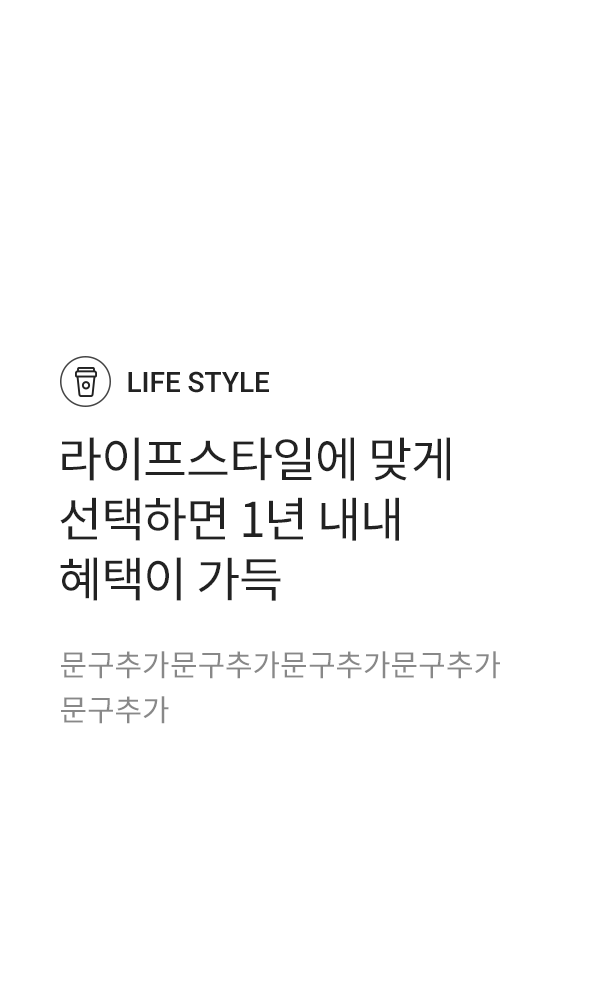
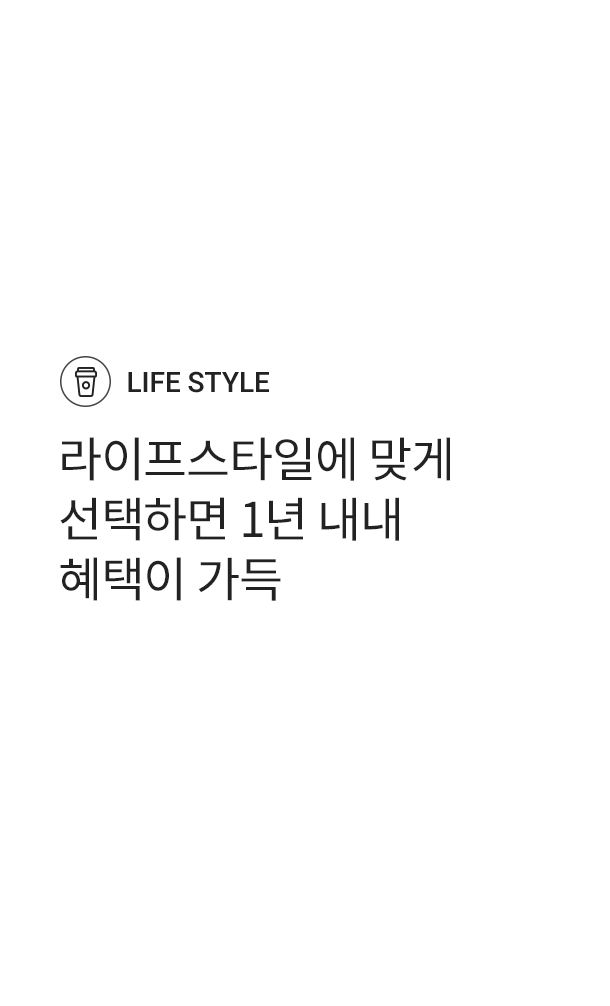
type-a 디자인 및 모션 수정

Changed region(s): [[0.0934, 0.6471, 0.841, 0.7396]]

diff --git a/type_a/assets/css/main.css b/type_a/assets/css/main.css
@@ -1160,16 +1160,7 @@ body, html {
             margin-top: -185px;
             opacity: 0;
             filter: alpha(opacity=0);
-            transform: scale(2); }
-            .card-holder .card-box .card-clip .card-pod .card-float img.onShow {
-              opacity: 1;
-              filter: alpha(opacity=100);
-              transform: scale(1);
-              -webkit-transition: -webkit-transform 0.5s ease-in 0s, opacity 0.5s ease-in 0s;
-              -moz-transition: -moz-transform 0.5s ease-in 0s, opacity 0.5s ease-in 0s;
-              -ms-transition: -ms-transform 0.5s ease-in 0s, opacity 0.5s ease-in 0s;
-              -o-transition: -o-transform 0.5s ease-in 0s, opacity 0.5s ease-in 0s;
-              transition: transform 0.5s ease-in 0s, opacity 0.5s ease-in 0s; }
+            transform: scale(1.5); }
         .card-holder .card-box .card-clip .card-pod .card-scale {
           opacity: 0;
           filter: alpha(opacity=0);
@@ -1253,7 +1244,7 @@ body, html {
               width: 213px;
               height: 64px;
               left: 60px;
-              top: 762px; }
+              top: 651px; }
             .card-holder .card-box .card-clip .card-pod .card-scale .card .card-mask .card-btn-4 {
               width: 212px;
               height: 64px;

diff --git a/type_a/assets/scss/main.scss b/type_a/assets/scss/main.scss
@@ -110,13 +110,13 @@ $tW : 720;
 
           img {width:502px; height:370px; margin-left:-251px; margin-top:-185px;
             @include opacity(0);
-            transform:scale(2.0);
+            transform:scale(1.5);
 
-            &.onShow {
-              @include opacity(1);
-              transform:scale(1);
-              @include transform-css-transition('0.5s ease-in 0s, opacity 0.5s ease-in 0s');
-            }
+            //&.onShow {
+            //  @include opacity(1);
+            //  transform:scale(1);
+            //  @include transform-css-transition('0.5s ease-in 0s, opacity 0.5s ease-in 0s');
+            //}
           }
 
         }
@@ -160,7 +160,7 @@ $tW : 720;
               }
               .card-btn-1 {width:262px;height:92px; left:176px; top:654px;}
               .card-btn-2 {width:271px;height:64px; left:60px; top:704px;}
-              .card-btn-3 {width:213px;height:64px; left:60px; top:762px;}
+              .card-btn-3 {width:213px;height:64px; left:60px; top:651px;}
               .card-btn-4 {width:212px;height:64px; left:60px; top:662px;}
               .card-btn-5 {width:291px;height:64px; left:60px; top:702px;}
 

diff --git a/type_a/assets/js/main.js b/type_a/assets/js/main.js
@@ -246,12 +246,14 @@ var main = (function($) {
         $('.popup-con').load('popup.html .popup',subLoadComplete);
 
         setTimeout(show1, 500);
-        setTimeout(show2, 900);
+        setTimeout(show2, 1000);
         setTimeout(show3, 1400);
     };
 
     var show1 = function() {
-        $('.card-float img').addClass('onShow');
+        // $('.card-float img').addClass('onShow');
+
+        $('.card-float img').animate({ 'opacity': 1, 'transform':'scale(1)' }, 500, 'easeOutBounce');
     };
 
     var show2 = function() {
